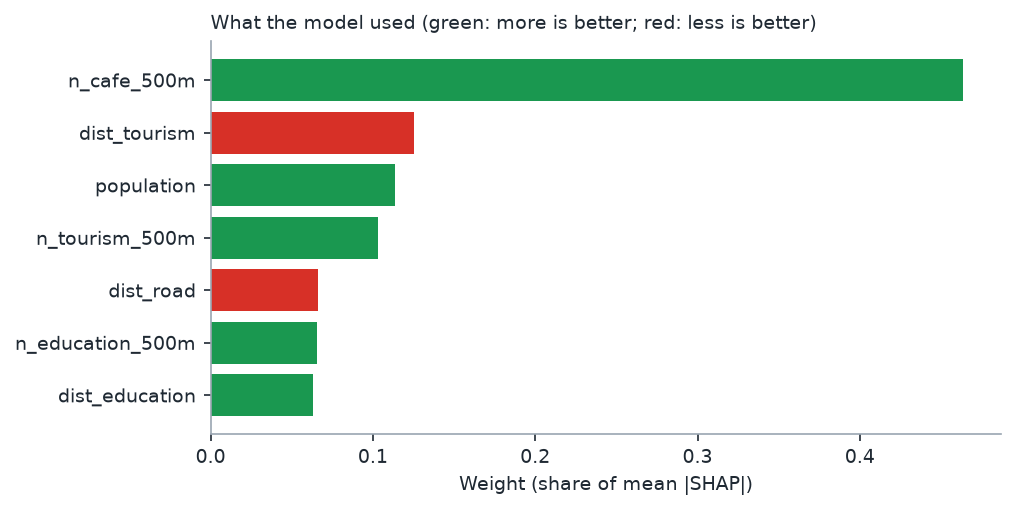
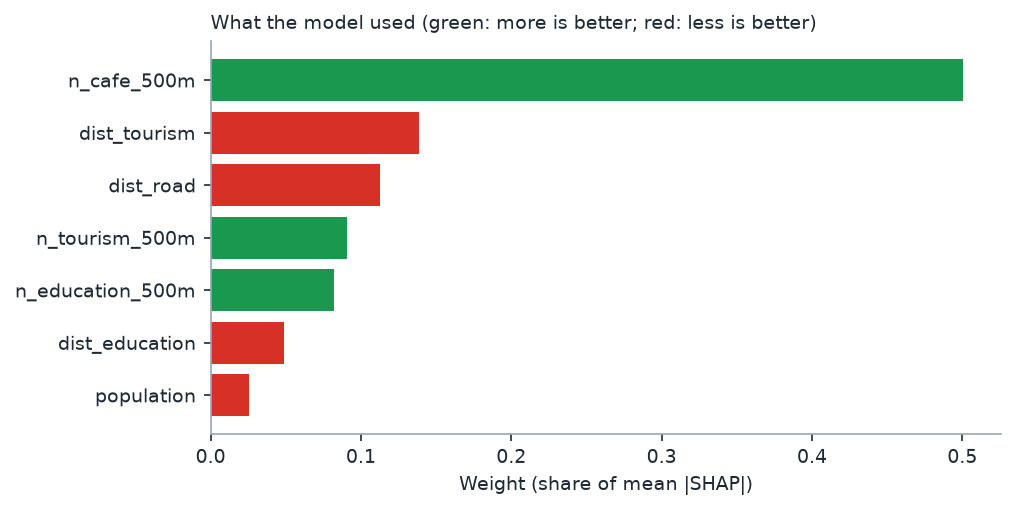
Vector GeoAI: site selection moved to Kota Bandung (UTM 48S); text updated to Bandung results (perfect 1.00 leaky model, 0.86 OOB honest; population slightly negative; weights are local)
Claude-Session: https://claude.ai/code/session_01WoXYqbyHPukUWTfe4XsRAY

diff --git a/scripts/py/ch22_site_selection.py b/scripts/py/ch22_site_selection.py
@@ -1,5 +1,5 @@
 #| title: Vector GeoAI site selection (Python)
-#| description: Coffee-shop suitability in Kota Malang on an H3 hexagon grid. OpenStreetMap proximity and density features, WorldPop population from Earth Engine, a manufactured presence/pseudo-absence label, the leakage trap, a Random Forest read with SHAP, and a transparent weighted score.
+#| description: Coffee-shop suitability in Kota Bandung on an H3 hexagon grid. OpenStreetMap proximity and density features, WorldPop population from Earth Engine, a manufactured presence/pseudo-absence label, the leakage trap, a Random Forest read with SHAP, and a transparent weighted score.
 
 """
 CHAPTER 22 | The same machine, a commercial question
@@ -27,11 +27,11 @@ import osmnx as ox
 import pandas as pd
 from shapely.geometry import Polygon
 
-PLACE = "Kota Malang, Jawa Timur, Indonesia"
+PLACE = "Kota Bandung, Jawa Barat, Indonesia"
 # H3 resolution 9: hexagons about 175 m across, a two-minute walk, the right
 # unit for a coffee shop catchment. Resolution 8 (~460 m) suits a supermarket.
 H3_RESOLUTION = 9
-CRS_METRIC = "EPSG:32749"       # UTM 49S: distances in metres, never in degrees
+CRS_METRIC = "EPSG:32748"       # UTM 48S: distances in metres, never in degrees
 CRS_GEO = "EPSG:4326"
 DENSITY_RADIUS_M = 500          # about a five-minute walk
 
@@ -194,7 +194,7 @@ def score_figure():
     g.plot(column="score", cmap="YlOrRd", linewidth=0.1, edgecolor="#555555", legend=True,
            legend_kwds={"label": "Suitability score (0 to 1)", "shrink": 0.6}, ax=ax)
     g[g.label == 1].boundary.plot(ax=ax, color="#1f2933", linewidth=0.6)
-    ax.set_title("Coffee-shop suitability, Kota Malang (outlined: hexagons with a cafe today)",
+    ax.set_title("Coffee-shop suitability, Kota Bandung (outlined: a cafe today)",
                  loc="left", fontsize=10)
     ax.set_axis_off()
     return fig
